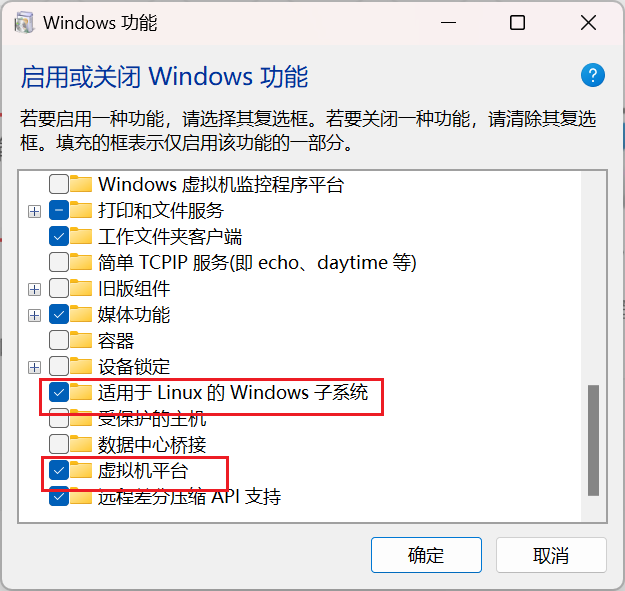
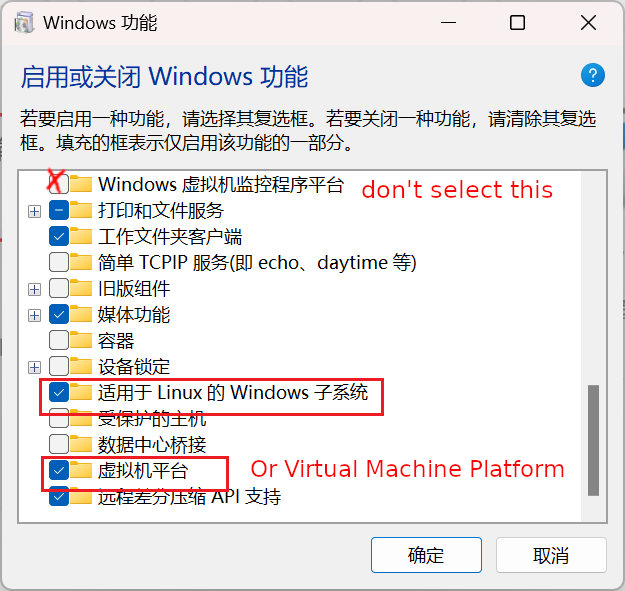
update wsl doc to include error cases

diff --git a/wsl/wsl.md b/wsl/wsl.md
@@ -6,30 +6,38 @@ _Modified by zzjc_
 
 ## Windows (using wsl)
 
+### What/why
+
 ### Requirements
 
 - Windows 10 1709 Fall Creators Update 64bit or later.
-- Windows Subsystem for Linux feature is enabled.
+- Windows Subsystem for Linux feature is enabled.  
+- For Mac and Linux users, you don't need to install wsl.  
 
+### Steps
 1. To enable Linux feature
 
 ![](./1.png)
 
 ![](./2.png)
 
-Then run on `Powershell` with administrator
+Then run `Powershell` with **administrator**  
+
+![](./powershell.jpg)
+
+Copy and paste the following command in Powershell and hit Enter:  
 
 ```bash
 dism.exe /online /enable-feature /featurename:Microsoft-Windows-Subsystem-Linux /all /norestart
 ```
+**Make sure you type exactly the same.**   
 
+If you see this, then you are good to go.  
 ![](./3.png)
 
 ### Reminder
-
-When you use WSL2, Hyper-V is enabled, which is **NOT** compatible with other vm platforms like VMWare and VirtualBox.
-
-Think twice before using it.
+1. VMware is not compatible with Hper-V in older versions. If you are already using VMare, check whether it meets the minimum requirements: Windows 10 20H1 build 19041.264 or later; VMware Workstation/Player 15.5.5 or later.  
+If not, please update/uninstall VMware/don't use wsl.  
 
 2. Check whether your PC support WSL2:
 
@@ -48,13 +56,19 @@ wsl --set-default-version 2
 
 #### Case 1: No error
 
-- Just enjoy your WSL2
+- Go on and install linux distro in your wsl2.  
 
 #### Case 2: Error with link https://aka.ms/wsl2kernel attatched
 
 - Go to https://aka.ms/wsl2kernel and download a patch
 - start wsl2 again
 - If network is slow, consider use winget to install wsl and turn on your proxy
+
+##### Case 2.1 Case 5: Error: 0x800701bc
+Go to following link for tutorial:  
+https://learn.microsoft.com/zh-cn/windows/wsl/install-manual#step-4---download-the-linux-kernel-update-package  
+The installaztion link:  
+https://wslstorestorage.blob.core.windows.net/wslblob/wsl_update_x64.msi
 
 #### Case 3: Error telling you Hyper-V is not enabled
 
@@ -75,52 +89,103 @@ wsl --set-default-version 2
 
 This might be an issue with your hardware. Please refer to section "How to Enable Hardware Virtualization in BIOS" in https://www.makeuseof.com/windows-11-enable-hyper-v/ and try to enable hardware virtualization. (My laptop thinkpad has this issue)
 
-##### Case 3.4 Otherwise
+#### Case 4: Catastrophic failure(灾难性故障)
+This error may due to corruptions during wsl installation. A reinstall may work.  
+You can try the following commands:  
+1. Go to `Open or close Windows features`(启用或关闭Windows功能) and cancel the above two features, reboot, tick the above two features and reboot
+
+2. 
+```bash
+$ wsl --shutdown
+$ wsl --update
+$ wsl --install
+```
+3. go to https://github.com/microsoft/WSL/releases and download wsl.2.6.1.0.x64.msi if your computer is x64, or wsl.2.6.1.0.arm64.msi if it's ARM.  
+
+4. 
+```bash
+$ Get-AppxPackage MicrosoftCorporationII.WindowsSubsystemforLinux -AllUsers | Remove-AppxPackage
+$ wsl --update --web-download
+```
+
+#### Case 5: 0x80370114Error
+
+Go to `Open or close Windows features`(启用或关闭Windows功能) and cancel Windows Hypervisor Platform(windows虚拟机监控程序平台).
+
+
+#### Case 6: 0x8007019eError
+You could try the following command:  
+1. 
+```
+wsl --set-default-version 2
+```
+2. 
+```
+wsl --update
+```
+
+3. try the solution of Case 2.1.  
+#### Case 7: ubuntu files not found
+![](./ubuntu_notfound.png)
+This may due to changes of the path of ubuntu files. Try:  
+```
+wsl --unregister Ubuntu
+```
+And reinstall ubuntu.  
+
+#### Case 8: wsl command not found
+Install wsl with winget:
+```
+winget install Microsoft.WSL
+```
+
+#### Otherwise
 
 - Search online with error message on your screen (better go to stackoverflow/microsoft doc/github issues)
 - Just use WSL1. It has no big issue.
 
-4. Install Linux (Ubuntu/arch, you only need choose **one**)
+4. Install Linux (Ubuntu/Debian/arch, you only need choose **one**)
 
-### Jbox
-
-I download latest ubuntu, debian and arch packages from ms official website, you can download **one of them**. If you use ubuntu and debian, just click the file and everything will be done automatically. If you use arch, you need to run `wsl --install --from-file <file-path>`. By arch wiki simply run ` wsl --install archlinux` is fine, but it is not tested by us.
-
-分享内容: archlinux.wsl 等3个
-
-链接: https://pan.sjtu.edu.cn/web/share/998f65b3a2da2ba1b0a3251c57e8b815, 提取码: 8kk6
-
-sample code
-
-```bash
-wsl --import Arch "$env:LOCALAPPDATA\wsl\Arch" ".\Downloads\archlinux.wsl" --version 2
-```
-
-The following tutorial is from old version, you can check them if you get stuck by previous methods.
 
 ### Ubuntu
+Ubuntu is a linux distro which is widely used and simple for beginners.  
 
 Go to Microsoft Store and search "Ubuntu"
 
-![](./5.png)
+![](./ubuntu_ms.png)
 
-Download one of them.
+Download one of them. Recommend:24.04.    
+*Hint: if it's slow, please scroll down to "JBox" section and download ubuntu there.*
 
 Open your terminal and choose `ubuntu`.
 
-Setup your user name and password.
-
+Setup your user name and password. **The password will not be shown in the terminal when you type in.**
 ![](./7.png)
 
-run
-
+run the following commands to install essen tial packages. 
 ```bash
 $ sudo apt update
 $ sudo apt install build-essential
 $ gcc --version
 ```
-
 ![](./8.png)
+
+
+### Debian
+the steps are exactly the same as ubuntu.
+
+### Reminder  
+
+#### Case 1: No username and password required
+
+In this case, you may see something like `root@xxx` in the terminal, which means you are logging in as a root user(superuser). You need to set up a normal user with following commands:  
+```bash
+$ adduser <username>
+$ su - <username>
+```
+seeing `<username>@xxx:~$` means it's successful.  
+
+#### Case 2:
 
 ### Arch
 
@@ -131,6 +196,7 @@ Here, we demonstrate the first method.
 1. [Download](https://github.com/yuk7/ArchWSL/releases/latest) the installer zip.
 
 ![](./9.png)
+*Hint: if it's slow, please scroll down to "JBox" section and download Arch there.*
 
 2. Extract all files in zip file to the same directory. Please extract to a folder that you have write permission. For example, `C:\Program Files` cannot be used since the rootfs cannot be modified there.
 
@@ -199,3 +265,31 @@ $ gcc --version
 ```
 
 ![](./18.png)
+
+
+### Reminder:
+If you face issues when installing arch, please search online or just switch to ubuntu/debian.  
+
+
+### Jbox
+
+I download latest ubuntu, debian and arch packages from ms official website, you can download **one of them**. If you use ubuntu and debian, just click the file and everything will be done automatically. If you use arch, you need to run `wsl --install --from-file <file-path>`. By arch wiki simply run ` wsl --install archlinux` is fine, but it is not tested by us.
+
+分享内容: archlinux.wsl 等3个
+
+链接: https://pan.sjtu.edu.cn/web/share/998f65b3a2da2ba1b0a3251c57e8b815, 提取码: 8kk6
+
+sample code(**Arch**)
+
+```bash
+wsl --import Arch "$env:LOCALAPPDATA\wsl\Arch" ".\Downloads\archlinux.wsl" --version 2
+```
+
+
+### Usage
+
+Open `Powershell` or `cmd`, type:  
+```
+wsl
+```
+Then you will enter the linux environment in the terminal(wsl will choose the default linux distro). Now go on and code!  
